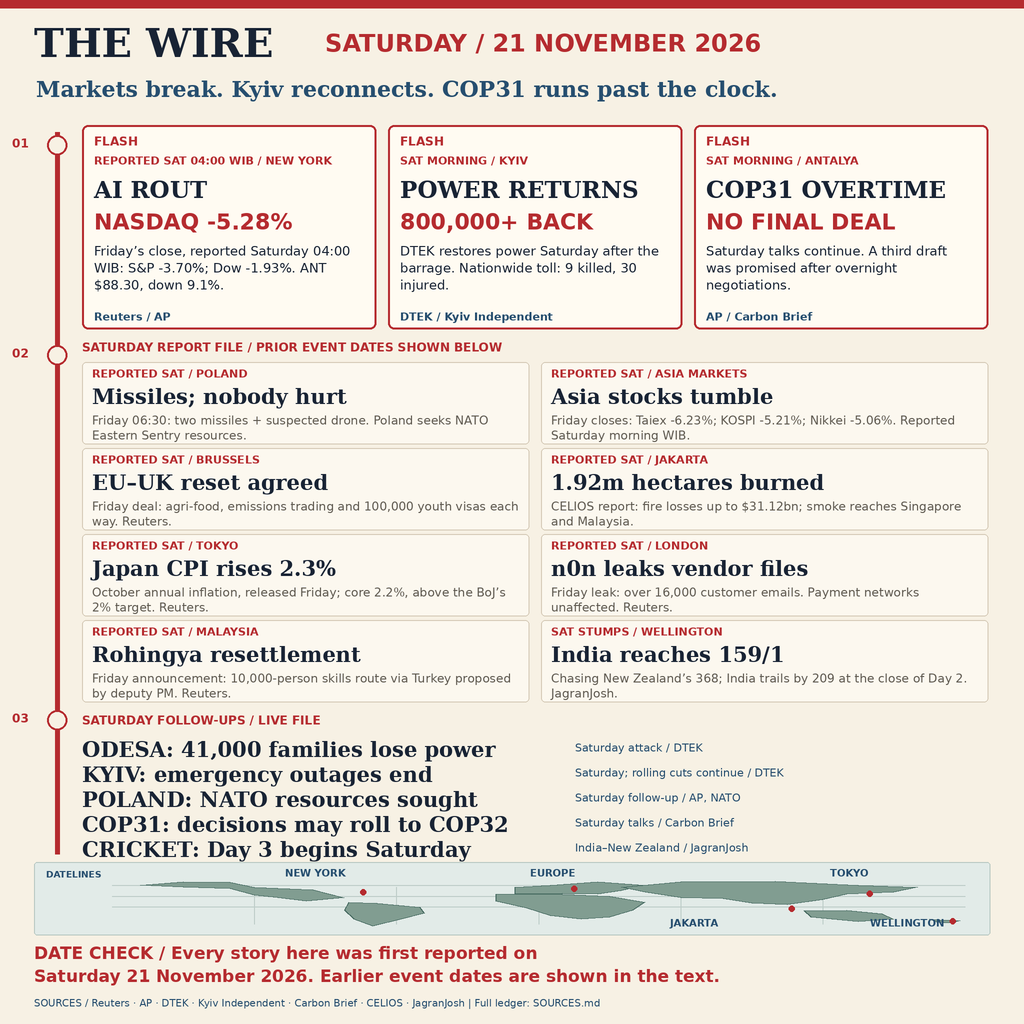
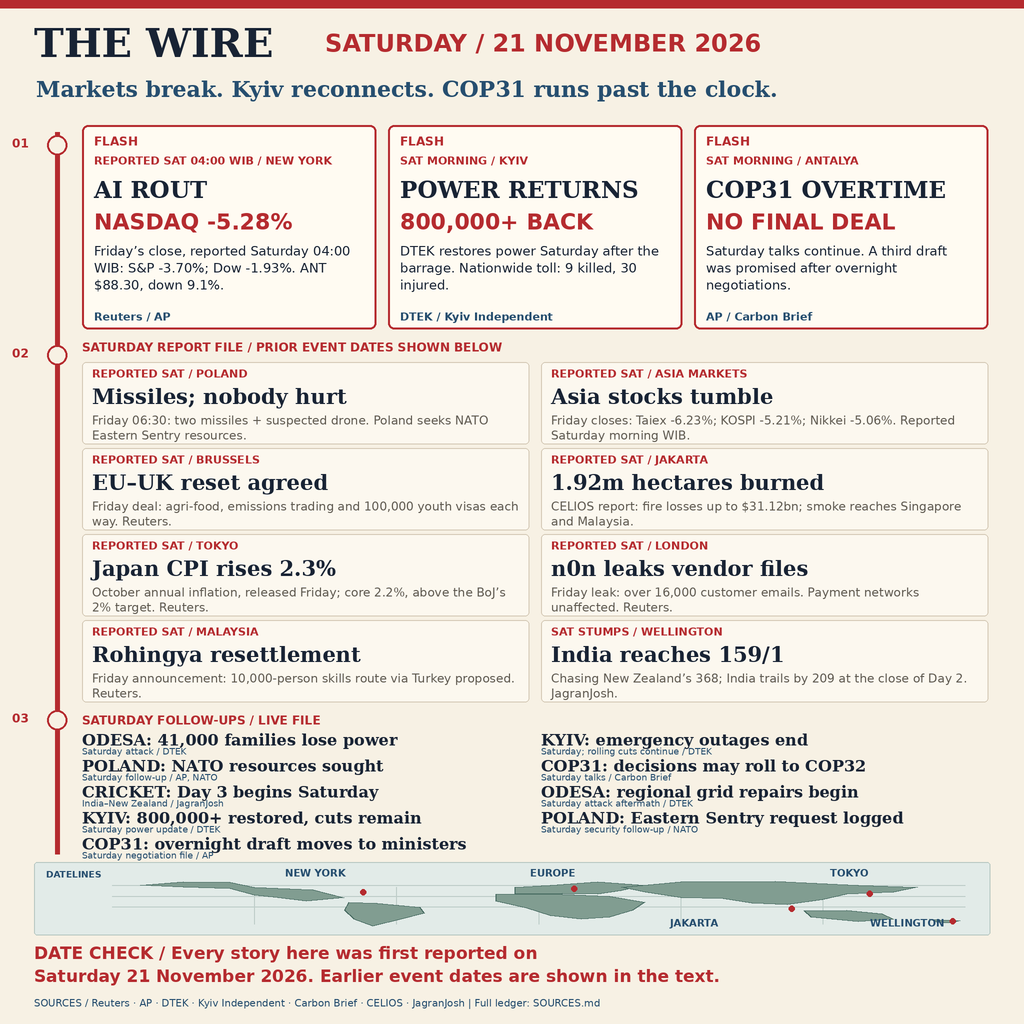
R3: buy back breadth to 20 stories

Changed region(s): [[0.0625, 0.7188, 0.5, 0.8438], [0.5312, 0.7188, 0.875, 0.8438], [0.0938, 0.6562, 0.2188, 0.6875]]

diff --git a/render.py b/render.py
@@ -97,7 +97,7 @@ def main():
         ("REPORTED SAT","JAKARTA","1.92m hectares burned","CELIOS report: fire losses up to $31.12bn; smoke reaches Singapore and Malaysia."),
         ("REPORTED SAT","TOKYO","Japan CPI rises 2.3%","October annual inflation, released Friday; core 2.2%, above the BoJ’s 2% target. Reuters."),
         ("REPORTED SAT","LONDON","n0n leaks vendor files","Friday leak: over 16,000 customer emails. Payment networks unaffected. Reuters."),
-        ("REPORTED SAT","MALAYSIA","Rohingya resettlement","Friday announcement: 10,000-person skills route via Turkey proposed by deputy PM. Reuters."),
+        ("REPORTED SAT","MALAYSIA","Rohingya resettlement","Friday announcement: 10,000-person skills route via Turkey proposed. Reuters."),
         ("SAT STUMPS","WELLINGTON","India reaches 159/1","Chasing New Zealand’s 368; India trails by 209 at the close of Day 2. JagranJosh.")]
     for i,row in enumerate(mids):
         bulletin(d,82+(i%2)*459,362+(i//2)*86,447,*row)
@@ -107,11 +107,16 @@ def main():
         ("KYIV: emergency outages end","Saturday; rolling cuts continue / DTEK"),
         ("POLAND: NATO resources sought","Saturday follow-up / AP, NATO"),
         ("COP31: decisions may roll to COP32","Saturday talks / Carbon Brief"),
-        ("CRICKET: Day 3 begins Saturday","India–New Zealand / JagranJosh")]
+        ("CRICKET: Day 3 begins Saturday","India–New Zealand / JagranJosh"),
+        ("ODESA: regional grid repairs begin","Saturday attack aftermath / DTEK"),
+        ("KYIV: 800,000+ restored, cuts remain","Saturday power update / DTEK"),
+        ("POLAND: Eastern Sentry request logged","Saturday security follow-up / NATO"),
+        ("COP31: overnight draft moves to ministers","Saturday negotiation file / AP")]
     for i,(head,detail) in enumerate(briefs):
-        yy=737+i*25
-        t(d,(82,yy),head,font("serifb",21),ink)
-        t(d,(575,yy+4),detail,font("sans",11),blue)
+        col=i%2; row=i//2
+        xx=82+col*459; yy=730+row*26
+        t(d,(xx,yy),head,font("serifb",16),ink)
+        t(d,(xx,yy+16),detail,font("sans",9),blue)
     # map strip
     y=862; box(d,(34,y,990,935),sea,outline=(185,201,195),width=1,r=3)
     t(d,(46,y+7),"DATELINES",font("sansb",9),blue)

diff --git a/SOURCES.md b/SOURCES.md
@@ -25,6 +25,10 @@ All stories are dated Saturday 21 November 2026 or first reported that day. The 
 21. JagranJosh: India 159/1 at stumps, NZ 368, Wellington Test.
 22. The Watchers/Hindu BusinessLine: Akvan, 372,000 evacuated, no deaths or major damage.
 23. Reuters/FT: administration seeks Ukraine-Russia peace agreement by early January.
+24. DTEK regional report: Saturday Odesa grid repairs begin after the attack that cut power to 41,000 families.
+25. DTEK/AP: Saturday Kyiv update confirms 800,000+ restored while rolling cuts continue.
+26. NATO/AP: Poland's Saturday follow-up seeks Eastern Sentry resources after the airspace incident.
+27. AP/Carbon Brief: Saturday COP31 overnight draft moves to ministers as negotiations continue.
 
 Sources named on image: Reuters, AP, AFP, BBC, DTEK, UN News, Kyiv Independent, Carbon Brief, Health Policy Watch, CELIOS, Copernicus, Sensor Tower.
 
